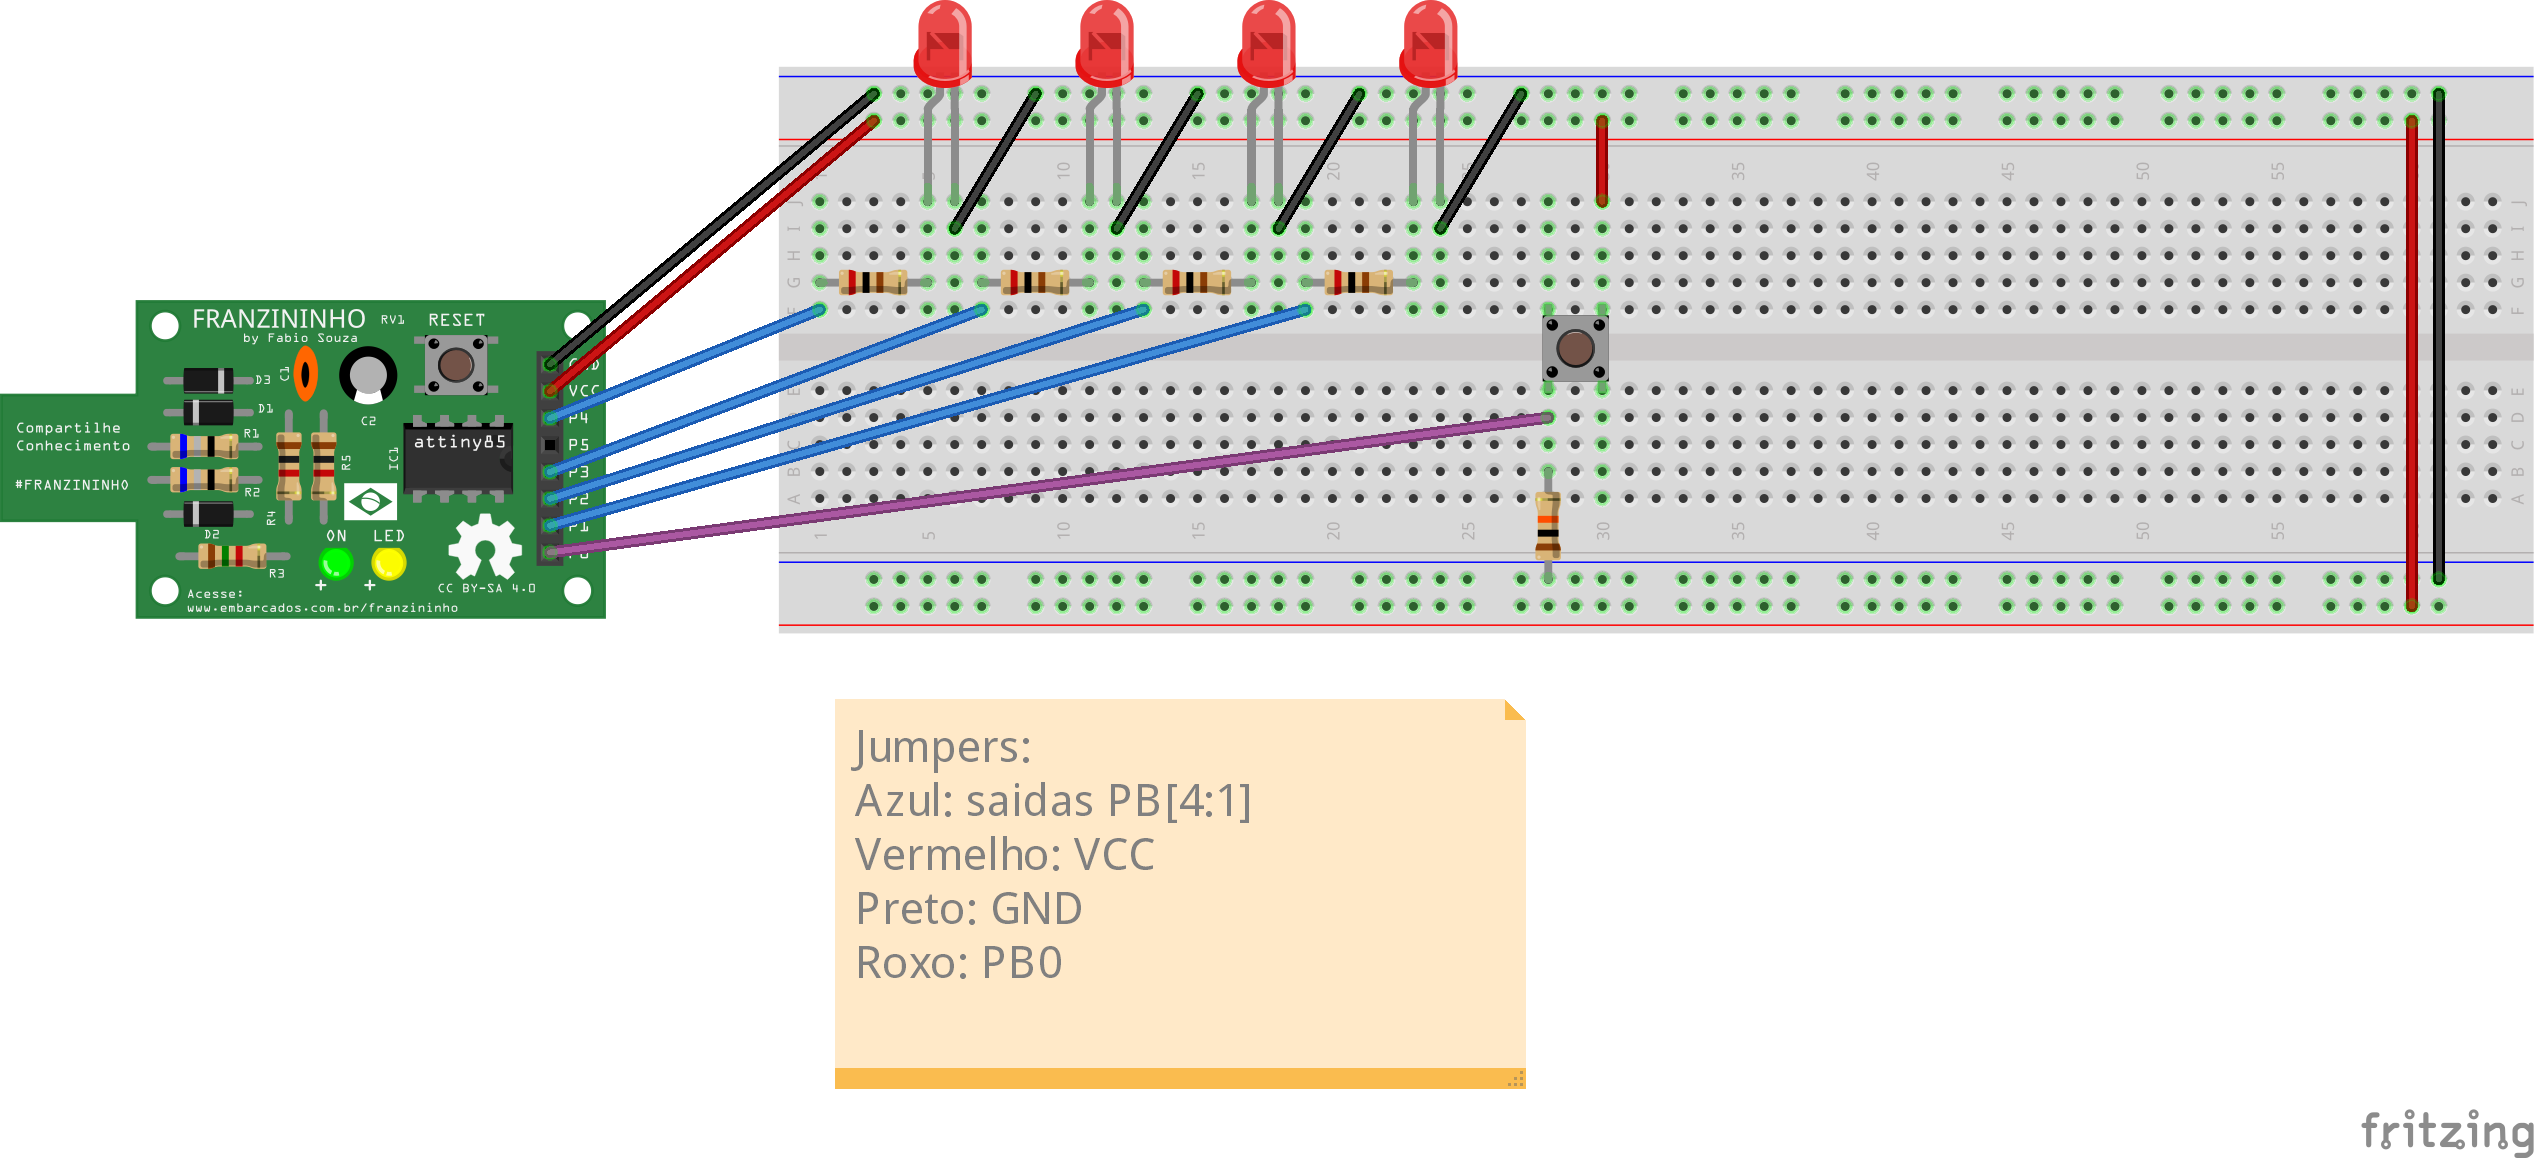
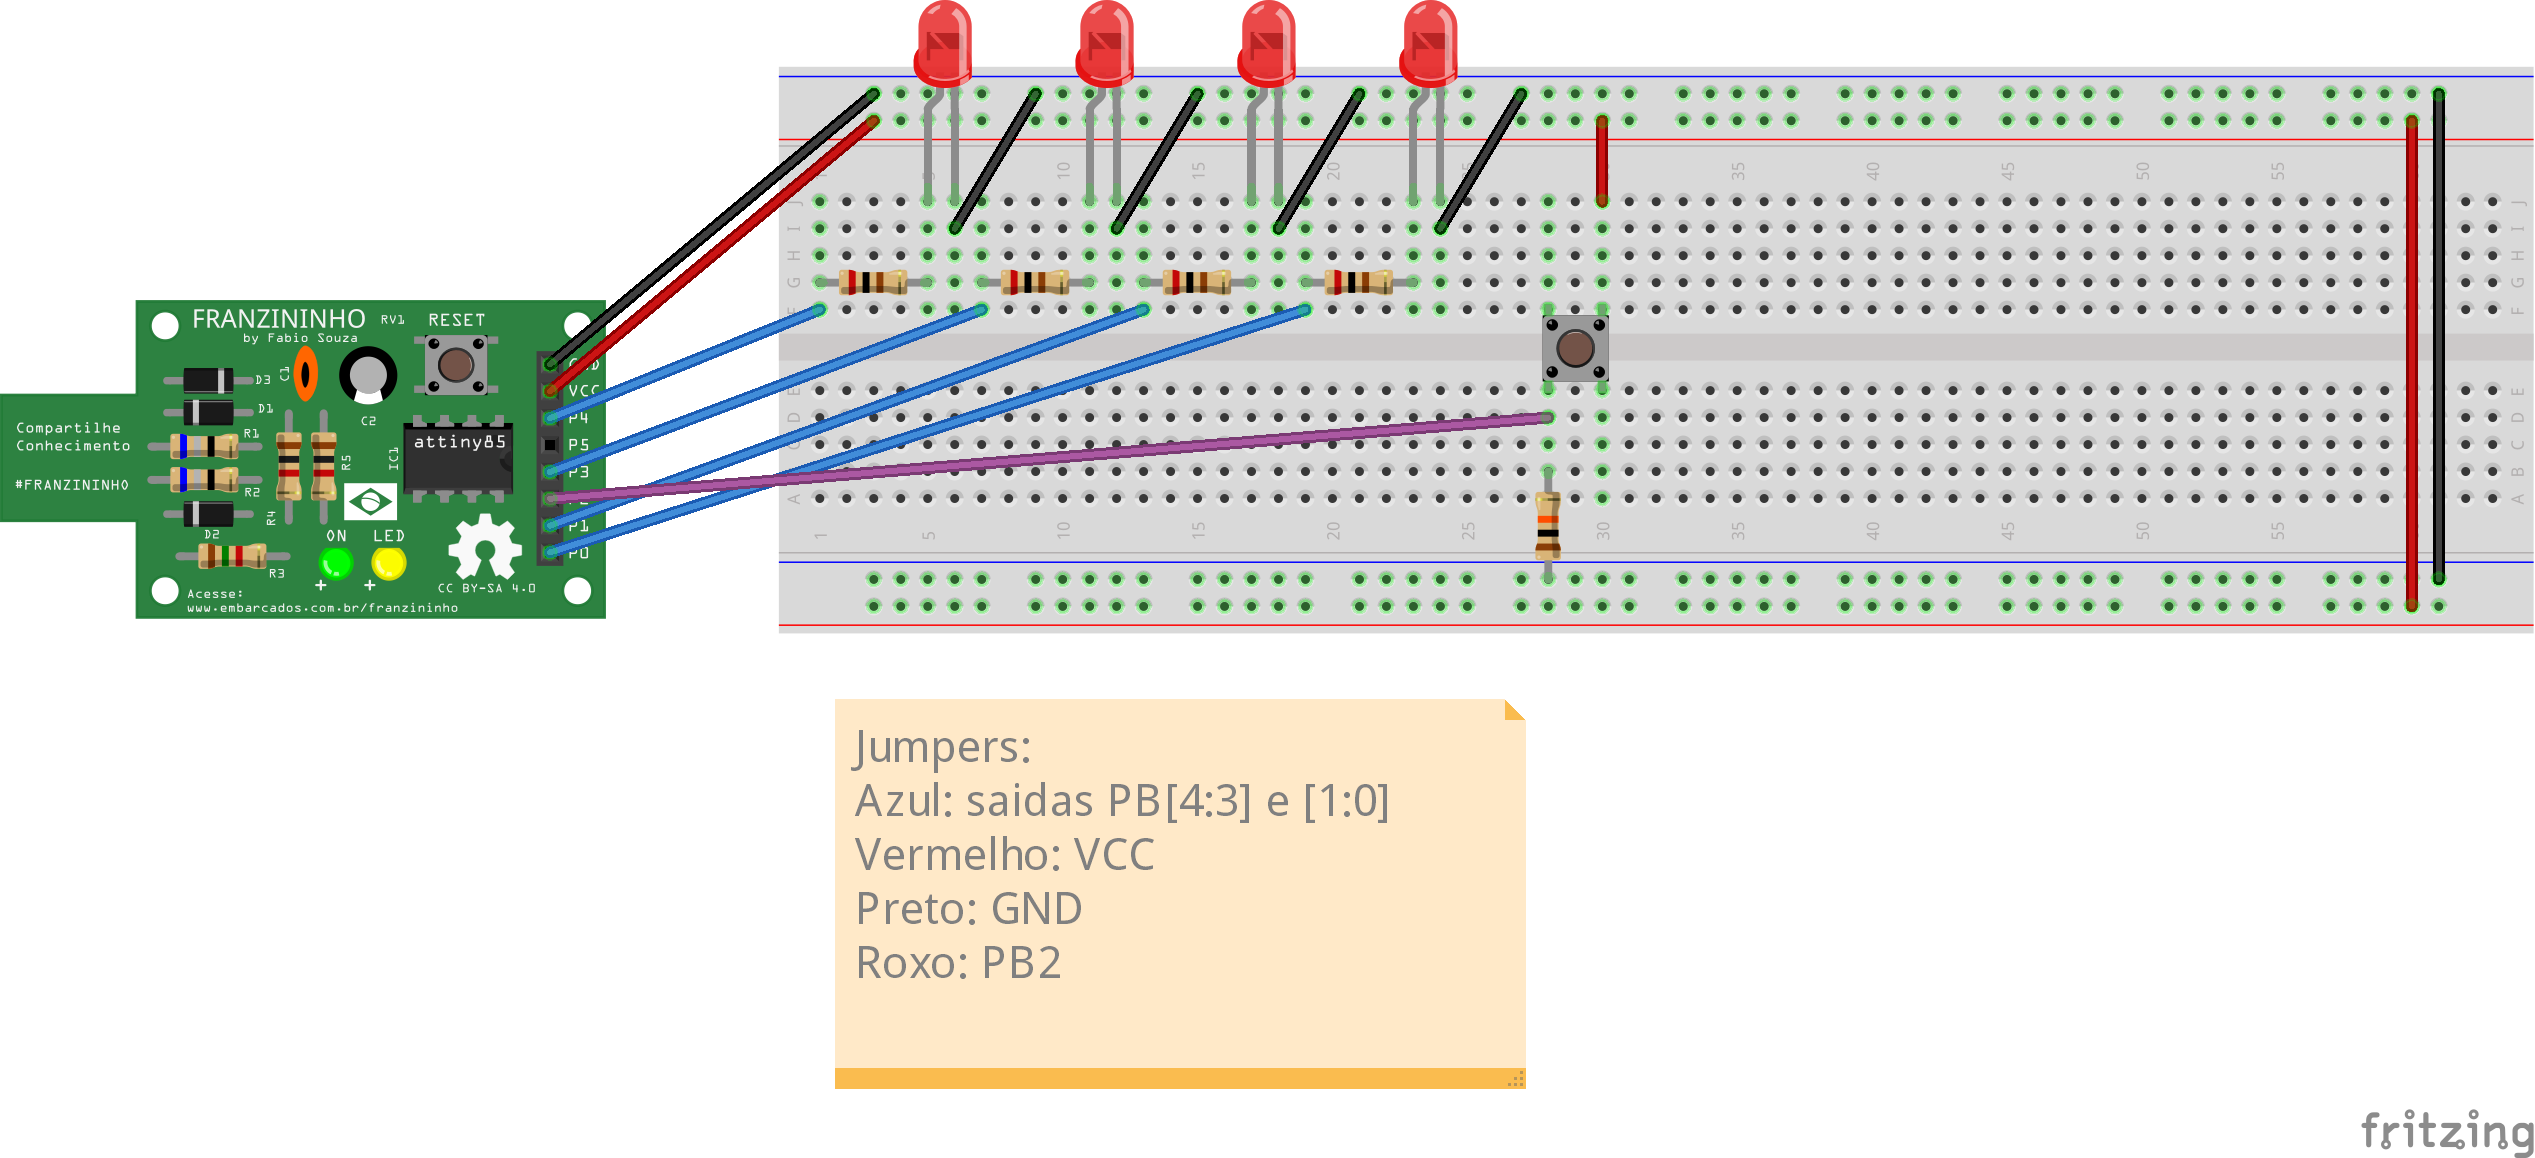
correções

Changed region(s): [[0.2181, 0.2798, 0.5921, 0.4974], [0.4986, 0.6839, 0.5609, 0.715]]

diff --git a/exemplos/contador/main.c b/exemplos/contador/main.c
@@ -35,9 +35,9 @@ char debounce(int pino){
 
 int main(void){
     //Configuração de PORTB
-    clearBit(DDRB,PB2);     //Configura PB2 como entrada
-    setBit(DDRB,PB0);       //Configura PB0 como saida
+    clearBit(DDRB,PB0);     //Configura PB0 como entrada
     setBit(DDRB,PB1);       //Configura PB1 como saida
+    setBit(DDRB,PB2);       //Configura PB2 como saida
     setBit(DDRB,PB3);       //Configura PB3 como saida
     setBit(DDRB,PB4);       //Configura PB4 como saida
     
